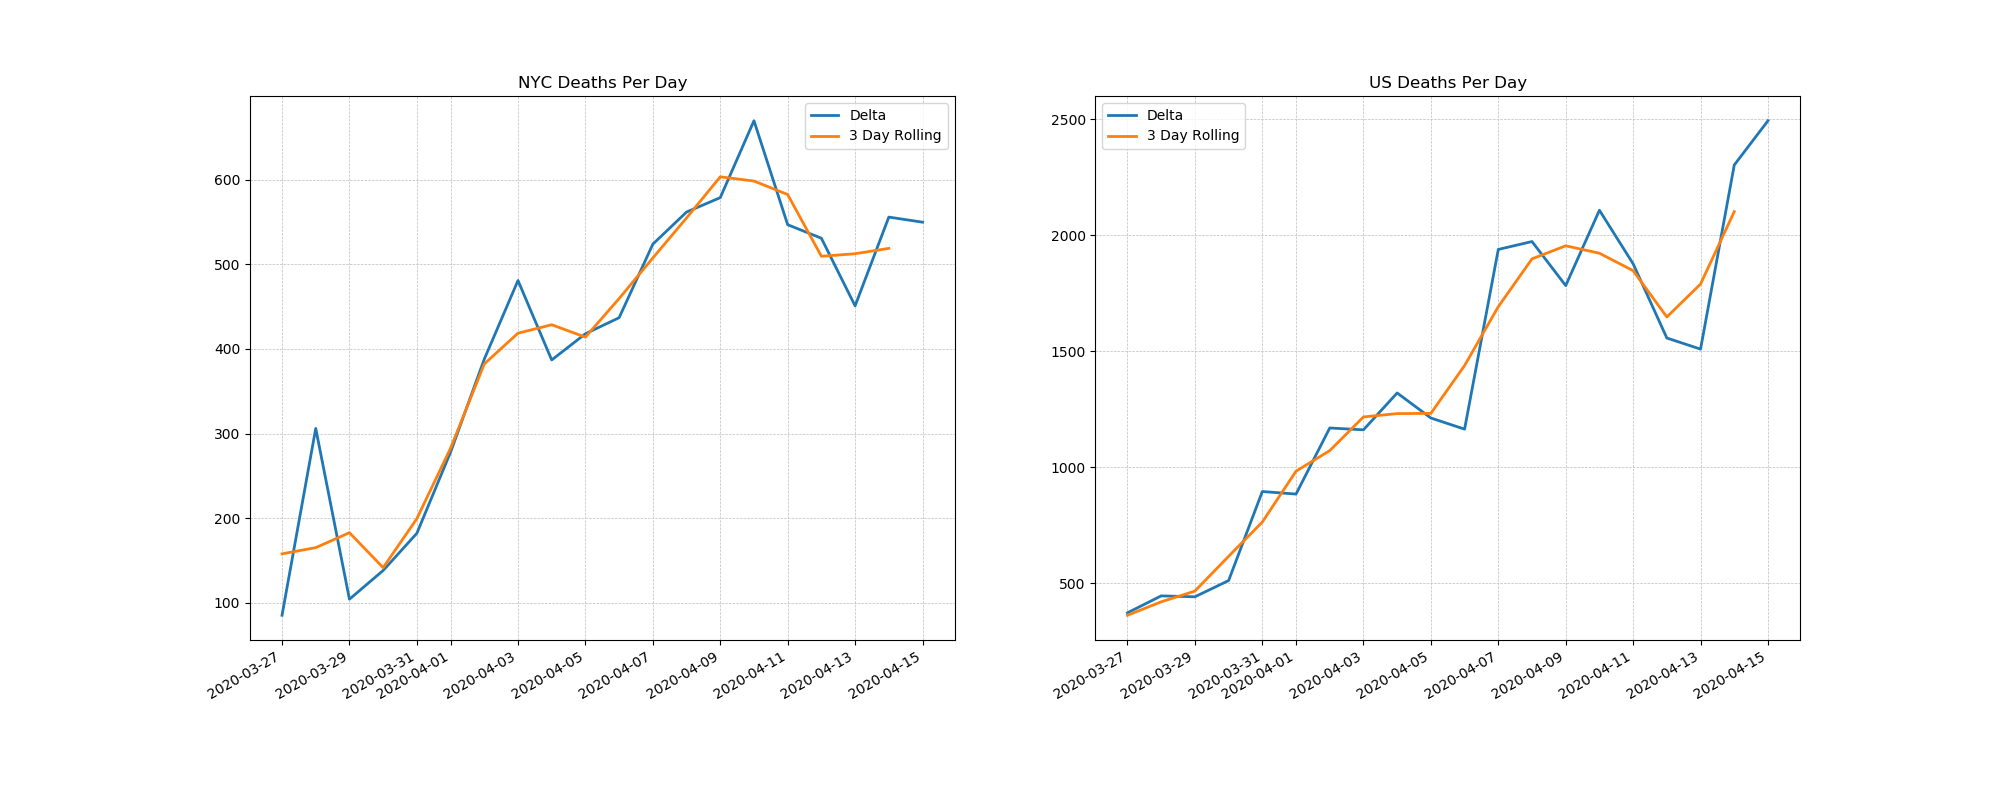
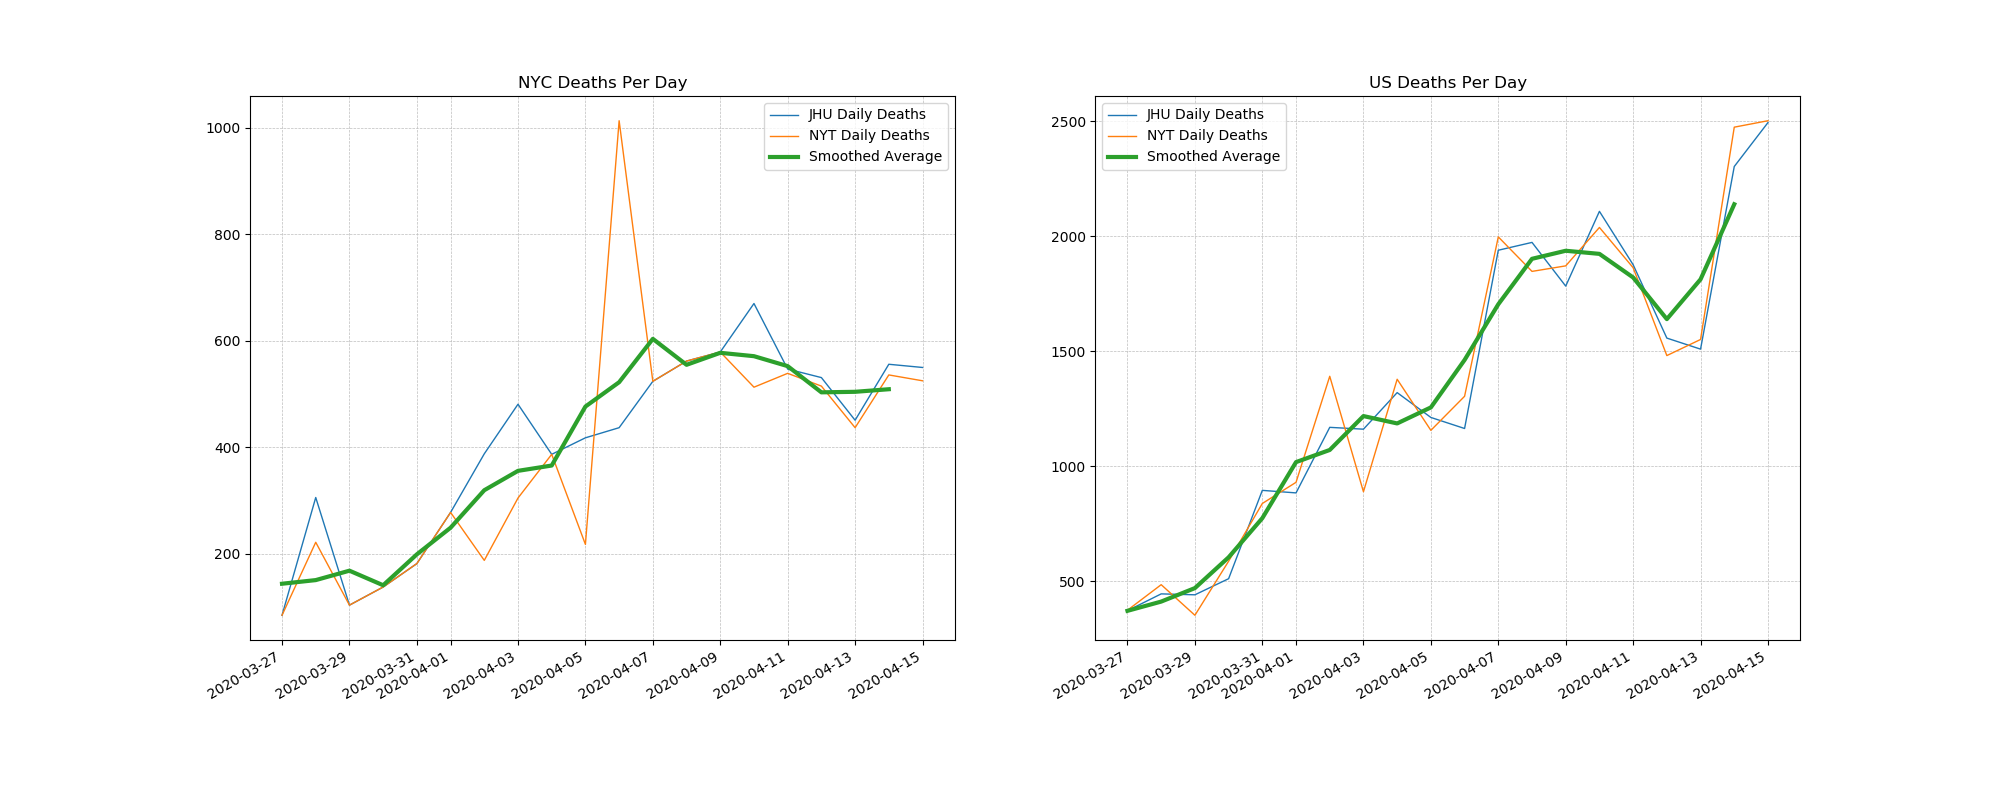
Makefile and using NYT data as well now

diff --git a/my_experiment.py b/my_experiment.py
@@ -11,6 +11,9 @@ US_URL = "https://raw.githubusercontent.com/CSSEGISandData/COVID-19/master/csse_
 GLOBAL_URL = "https://raw.githubusercontent.com/CSSEGISandData/COVID-19/master/csse_covid_19_data" \
              "/csse_covid_19_time_series/time_series_covid19_deaths_global.csv"
 
+NYT_COUNTY_URL = "https://raw.githubusercontent.com/nytimes/covid-19-data/master/us-counties.csv"
+NYT_US_URL = "https://raw.githubusercontent.com/nytimes/covid-19-data/master/us.csv"
+
 
 def download_files():
     r = requests.get(US_URL)
@@ -19,6 +22,14 @@ def download_files():
 
     r = requests.get(GLOBAL_URL)
     with open('global.csv', 'wb') as fout:
+        fout.write(r.content)
+
+    r = requests.get(NYT_COUNTY_URL)
+    with open('nyt-county.csv', 'wb') as fout:
+        fout.write(r.content)
+
+    r = requests.get(NYT_US_URL)
+    with open('nyt-us.csv', 'wb') as fout:
         fout.write(r.content)
 
 
@@ -33,22 +44,52 @@ def table_from_dict(d):
         except:
             pass
     table = pd.DataFrame(list(zip(dates, deaths)))
-    table['delta'] = table.diff()[1]
-    table['rolling'] = table.rolling(window=3, center=True).mean()['delta']
+    table.columns = ['date', 'deaths']
     return table
+
+
+def add_delta_and_rolling_columns(df):
+    df['delta'] = df['deaths'].diff()
+    df['rolling'] = df.rolling(window=3, center=True).mean()['delta']
+    return df
+
+
+def parse_dates_nyt(df):
+    df['date'] = [datetime.datetime.strptime(x, '%Y-%m-%d') for x in df['date']]
+    return df
 
 
 def get_nyc_table():
     df = pd.read_csv('us.csv')
     df = df[df['Province_State'] == 'New York']
     df = df[df['Admin2'] == 'New York']
-    return table_from_dict(df.to_dict())
+    jhu_table = table_from_dict(df.to_dict())
+    jhu_table = add_delta_and_rolling_columns(jhu_table)
+
+    df = pd.read_csv('nyt-county.csv')
+    df = df[df['state'] == 'New York']
+    df = df[df['county'] == 'New York City']
+    nyt_table = add_delta_and_rolling_columns(df)
+    nyt_table = parse_dates_nyt(nyt_table)
+
+    nyc_df = jhu_table.merge(nyt_table, on='date', suffixes=('_jhu', '_nyt'))
+    nyc_df['smooth'] = ((nyc_df['delta_jhu'] + nyc_df['delta_nyt']) / 2).rolling(window=3, center=True).mean()
+    return nyc_df
 
 
 def get_us_table():
     df = pd.read_csv("global.csv")
     df = df[df['Country/Region'] == 'US']
-    return table_from_dict(df.to_dict())
+    jhu_table = table_from_dict(df.to_dict())
+    jhu_table = add_delta_and_rolling_columns(jhu_table)
+
+    df = pd.read_csv('nyt-us.csv')
+    df = add_delta_and_rolling_columns(df)
+    df = parse_dates_nyt(df)
+
+    df = jhu_table.merge(df, on='date', suffixes=('_jhu', '_nyt'))
+    df['smooth'] = ((df['delta_jhu'] + df['delta_nyt']) / 2).rolling(window=3, center=True).mean()
+    return df
 
 
 def save_plots(nyc_table, us_table):
@@ -57,9 +98,10 @@ def save_plots(nyc_table, us_table):
     fig.autofmt_xdate()
 
     def plot_on_axis(table, ax, title):
-        ax.plot(table[0][-20:], table['delta'][-20:], linewidth=2)
-        ax.plot(table[0][-20:], table['rolling'][-20:], linewidth=2)
-        ax.legend(["Delta", "3 Day Rolling"])
+        ax.plot(table['date'][-20:], table['delta_jhu'][-20:], linewidth=1)
+        ax.plot(table['date'][-20:], table['delta_nyt'][-20:], linewidth=1)
+        ax.plot(table['date'][-20:], table['smooth'][-20:], linewidth=3)
+        ax.legend(['JHU Daily Deaths', 'NYT Daily Deaths', 'Smoothed Average'])
         ax.grid(**_GRID_LINE_PROPERTIES)
         ax.set_title(title)
 
